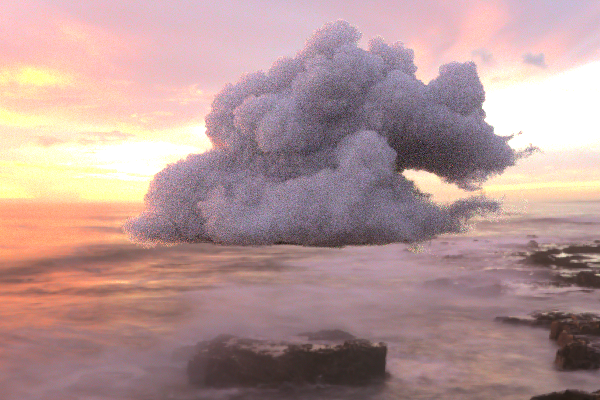
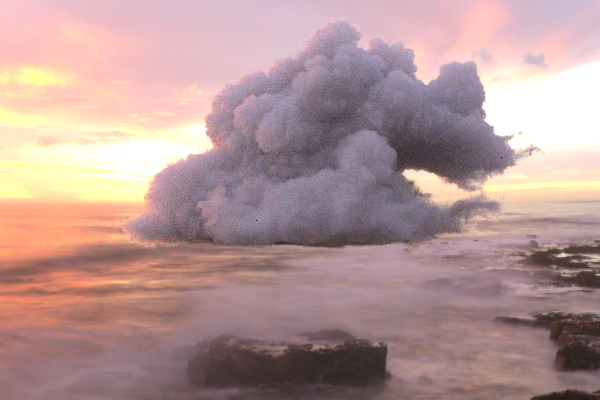
volume-path: fix direct lighting russian roulette

Changed region(s): [[0.21, 0.03, 0.9, 0.63]]

diff --git a/exe/renderer/main.cpp b/exe/renderer/main.cpp
@@ -46,9 +46,9 @@ auto main() -> int {
 	material::Material::initialize();
 
 	auto size = math::Vector<usize, 2>{600uz, 400uz};
-	auto spp = 16uz;
+	auto spp = 256uz;
 	auto blocks = 8uz;
-	auto depth = 10uz;
+	auto depth = 100uz;
 	auto kernels = usize(std::thread::hardware_concurrency());
 
 	auto sensor = std::make_unique<photo::Sensor>(color::Color_Space::sRGB.get());
@@ -69,22 +69,22 @@ auto main() -> int {
 	auto sampler = math::Halton_Sampler{rd()};
 
 	auto identity = math::Transform{};
-	auto world_to_render = math::Transform{{0.f, 0.f, 200.f}};
+	auto world_to_render = math::Transform{{0.f, 0.f, 1000.f}};
 	auto render_to_camera = identity;
 
-	auto sphere_to_world = math::Transform{{}, {40.f}};
-	auto mesh_to_world = math::Transform{{}, {40.f},
+	auto sphere_to_world = math::Transform{{}, {250.f}};
+	auto mesh_to_world = math::Transform{{}, {250.f},
 		math::Quaternion<f32>::from_axis_angle({1.f, 0.f, 0.f}, math::pi * 1.4f / 3.f),
 	};
-	auto bound_to_world = math::Transform{{}, {100.f}};
-	auto medium_to_world = math::Transform{{}, {0.2f},
+	auto bound_to_world = math::Transform{{}, {500.f}};
+	auto medium_to_world = math::Transform{{}, {1.0f},
 		math::Quaternion<f32>::from_axis_angle({0.f, 1.f, 0.f}, math::pi * 1.f / 2.f),
 	};
 	auto light_to_world = identity;
 	auto parallel_to_world = math::Transform{{}, {1.f},
 		math::Quaternion<f32>::from_rotation_between(
 			{0.f, 0.f, 1.f},
-			math::sphere_to_cartesion({math::pi * 0.6f, math::pi * 1.3f})
+			math::sphere_to_cartesion({math::pi * 0.6f, math::pi * 0.3f})
 		),
 	};
 	auto point_to_world = math::Transform{
@@ -141,18 +141,18 @@ auto main() -> int {
 		&nanovdb_grid,
 		color::Color_Space::sRGB->to_spectrum(
 			{0.0f, 0.0f, 0.0f},
-			color::Color_Space::Spectrum_Type::albedo
+			color::Color_Space::Spectrum_Type::unbounded
 		),
 		color::Color_Space::sRGB->to_spectrum(
 			{1.0f, 1.0f, 1.0f},
-			color::Color_Space::Spectrum_Type::albedo
+			color::Color_Space::Spectrum_Type::unbounded
 		),
 		color::Color_Space::sRGB->to_spectrum(
 			{0.0f, 0.0f, 0.0f},
 			color::Color_Space::Spectrum_Type::illuminant
 		),
 		std::make_unique<phase::Henyey_Greenstein_Phase_Function>(0.877f),
-		4.f
+		1.f
 	};
 
 	auto env_map = std::make_unique<material::Image_Texture<spectra::Stochastic_Spectrum>>(
@@ -188,29 +188,29 @@ auto main() -> int {
 	};
 	auto area_light = light::Area_Light{sphere};
 	auto lights = std::vector<emitter::Divider>{
-		{&parallel_light, &parallel_to_world},
+		// {&parallel_light, &parallel_to_world},
 		// {&point_light, &point_to_world},
 		// {&spot_light, &spot_to_world},
 		// {&area_light, &sphere_to_world}
 	};
 	auto inf_lights = std::vector<emitter::Divider>{
-		{&const_env_light, &light_to_world},
-		// {&env_light, &light_to_world},
+		// {&const_env_light, &light_to_world},
+		{&env_light, &light_to_world},
 	};
 	auto emitter = emitter::Uniform_Emitter{std::move(lights), std::move(inf_lights)};
 
 	auto bvh = accel::LBVH{{
-		// {
-		// 	&sphere,
-		// 	&cloud_medium,
-		// 	&vaccum_medium,
-		// 	&interface_material,
-		// 	nullptr,
-		// 	&bound_to_world,
-		// 	&medium_to_world,
-		// 	&identity,
-		// 	0uz
-		// },
+		{
+			&sphere,
+			&cloud_medium,
+			&vaccum_medium,
+			&interface_material,
+			nullptr,
+			&bound_to_world,
+			&medium_to_world,
+			&identity,
+			0uz
+		},
 		// {
 		// 	&sphere,
 		// 	&vaccum_medium,
@@ -222,17 +222,17 @@ auto main() -> int {
 		// 	&identity,
 		// 	0uz
 		// },
-		{
-			&mesh,
-			&vaccum_medium,
-			&vaccum_medium,
-			&diffuse_material,
-			&area_light,
-			&mesh_to_world,
-			&identity,
-			&identity,
-			0uz
-		},
+		// {
+		// 	&mesh,
+		// 	&vaccum_medium,
+		// 	&vaccum_medium,
+		// 	&diffuse_material,
+		// 	&area_light,
+		// 	&mesh_to_world,
+		// 	&identity,
+		// 	&identity,
+		// 	0uz
+		// },
 
 	}};
 

diff --git a/README.md b/README.md
@@ -1,5 +1,3 @@
 # metatron
 
 ![disney-cloud](asset/disney-fire.png)
-
-![disney-cloud](asset/disney-thick.png)
